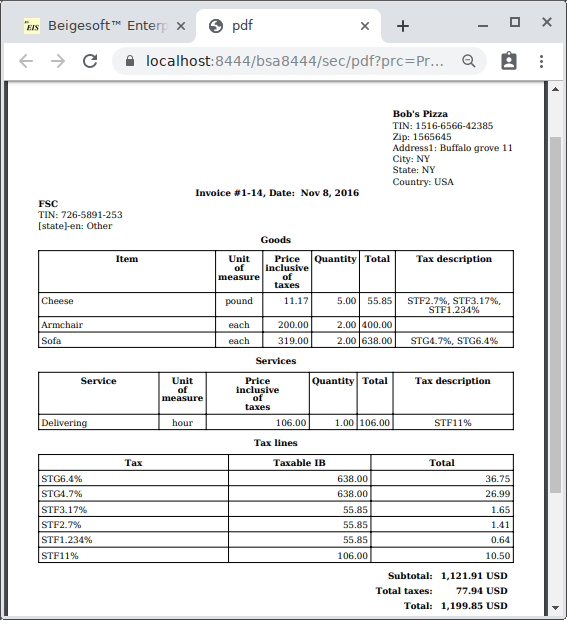
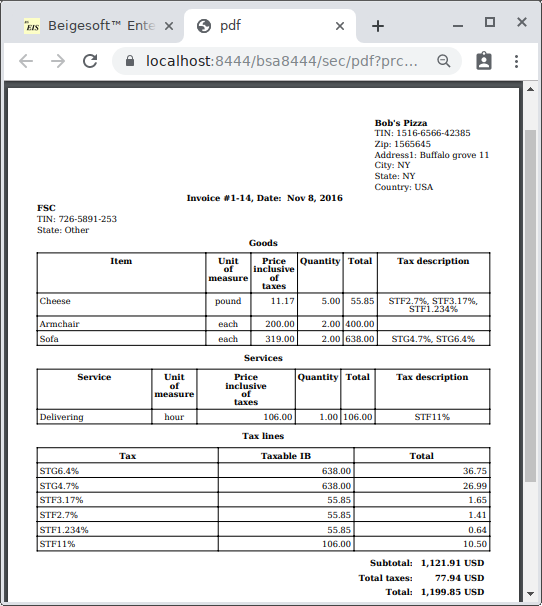
fixed invoice i18n msg, ipivanov doc

diff --git a/src/main/java/org/beigesoft/acc/rep/PrcBln.java b/src/main/java/org/beigesoft/acc/rep/PrcBln.java
@@ -33,6 +33,7 @@ import java.util.Map;
 import java.util.List;
 
 import org.beigesoft.mdl.IReqDt;
+import org.beigesoft.log.ILog;
 import org.beigesoft.rdb.IRdb;
 import org.beigesoft.srv.ISrvDt;
 import org.beigesoft.prc.IPrc;
@@ -69,6 +70,11 @@ public class PrcBln<RS> implements IPrc {
   private Integer trIsl;
 
   /**
+   * <p>Log.</p>
+   **/
+  private ILog log;
+
+  /**
    * <p>Process request.</p>
    * @param pRvs request scoped vars
    * @param pRqDt Request Data
@@ -90,6 +96,7 @@ public class PrcBln<RS> implements IPrc {
       pRvs.put("blnDt", dt);
       this.rdb.commit();
     } catch (Exception ex) {
+      this.log.error(pRvs, getClass(), "wrong: ", ex);
       this.srBlnc.hndRlBk(pRvs);
       if (!this.rdb.getAcmt()) {
         this.rdb.rollBack();
@@ -163,5 +170,21 @@ public class PrcBln<RS> implements IPrc {
    **/
   public final void setTrIsl(final Integer pTrIsl) {
     this.trIsl = pTrIsl;
+  }
+
+  /**
+   * <p>Geter for log.</p>
+   * @return ILog
+   **/
+  public final ILog getLog() {
+    return this.log;
+  }
+
+  /**
+   * <p>Setter for log.</p>
+   * @param pLog reference
+   **/
+  public final void setLog(final ILog pLog) {
+    this.log = pLog;
   }
 }

diff --git a/src/main/java/org/beigesoft/acc/fct/FcPrNtAc.java b/src/main/java/org/beigesoft/acc/fct/FcPrNtAc.java
@@ -194,6 +194,7 @@ public class FcPrNtAc<RS> implements IFctPrc {
     rz.setSrBlnc(srBlnc);
     rz.setSrvDt(this.fctApp.getFctBlc().lazSrvDt(pRvs));
     rz.setTrIsl(this.fctApp.getFctBlc().getFctDt().getReadTi());
+    rz.setLog(this.fctApp.getFctBlc().lazLogStd(pRvs));
     this.procs.put(PrcBln.class.getSimpleName(), rz);
     this.fctApp.getFctBlc().lazLogStd(pRvs).info(pRvs, getClass(),
       PrcBln.class.getSimpleName() + " has been created");

diff --git a/src/main/java/org/beigesoft/acc/rep/InvPdf.java b/src/main/java/org/beigesoft/acc/rep/InvPdf.java
@@ -338,7 +338,7 @@ public class InvPdf<WI> implements IInvPdf {
     if (addr != null) {
       docMaker.addRowToDocTable(tblDbcr);
       tblDbcr.getItsCells().get(++n).setItsContent(this.i18n
-        .getMsg("state", upf.getLng().getIid()) + ": " + addr);
+        .getMsg("stat", upf.getLng().getIid()) + ": " + addr);
     }
     if (i18Buyr != null) {
       addr = i18Buyr.getCntr();
